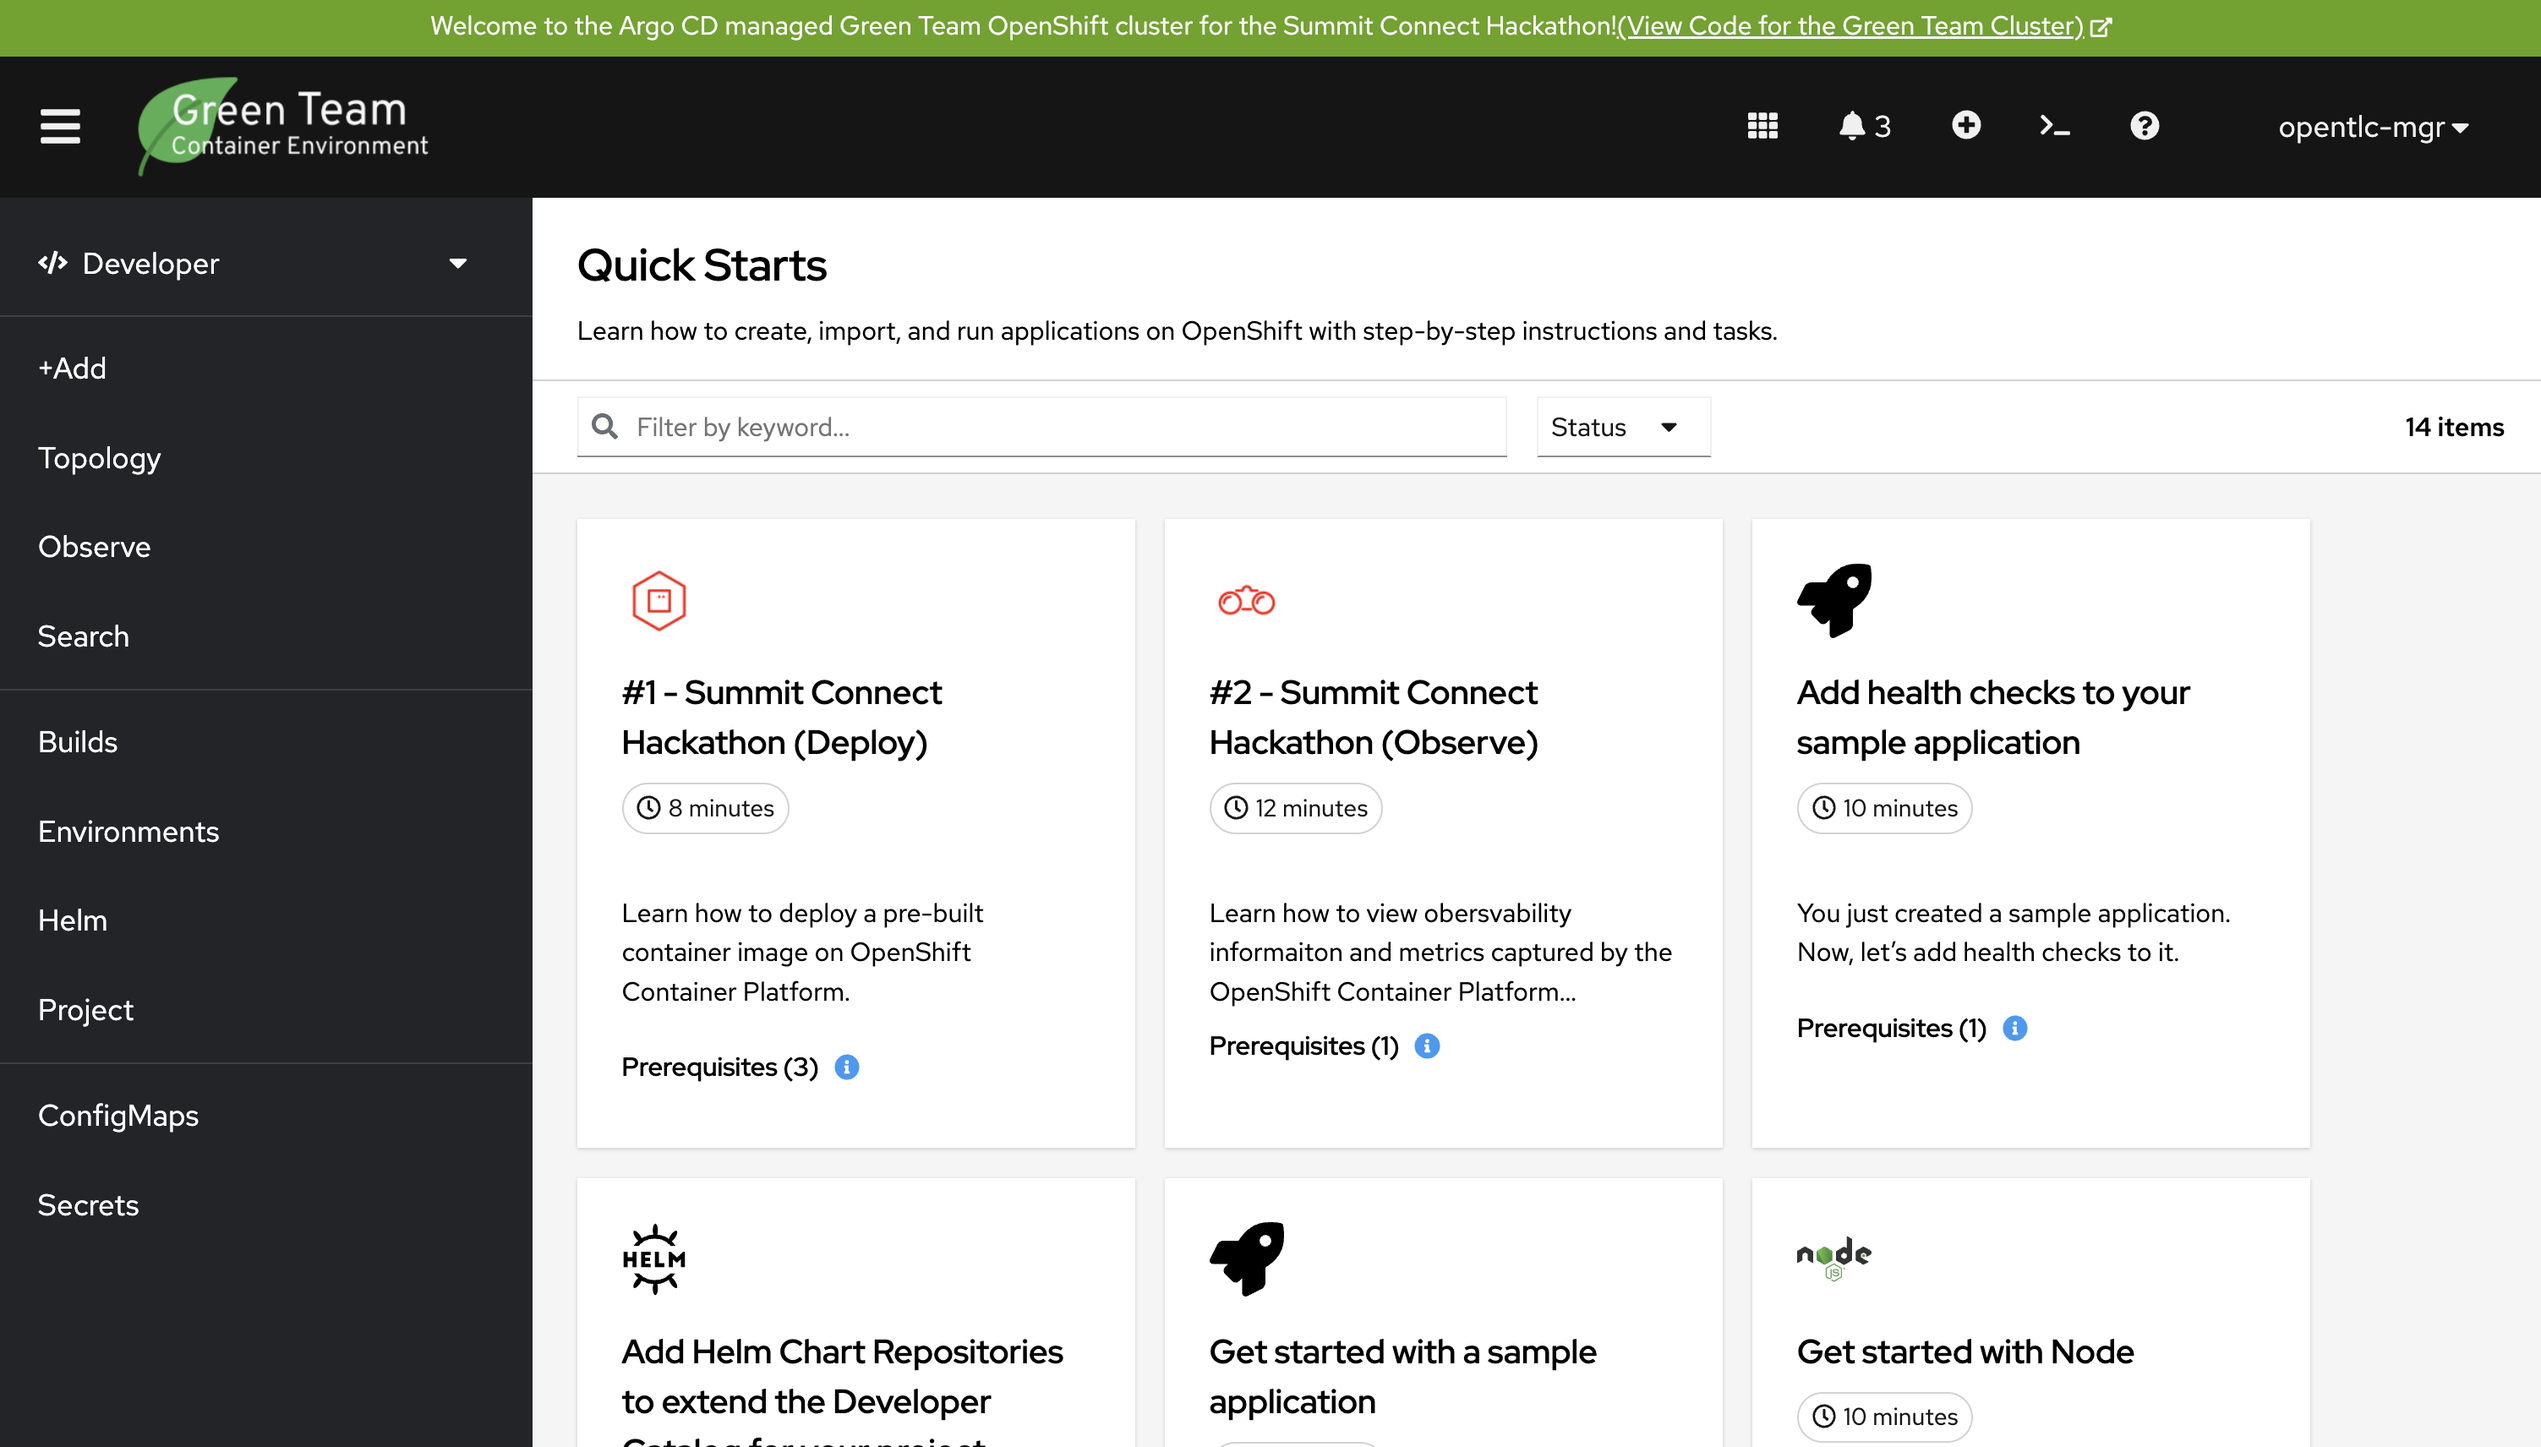
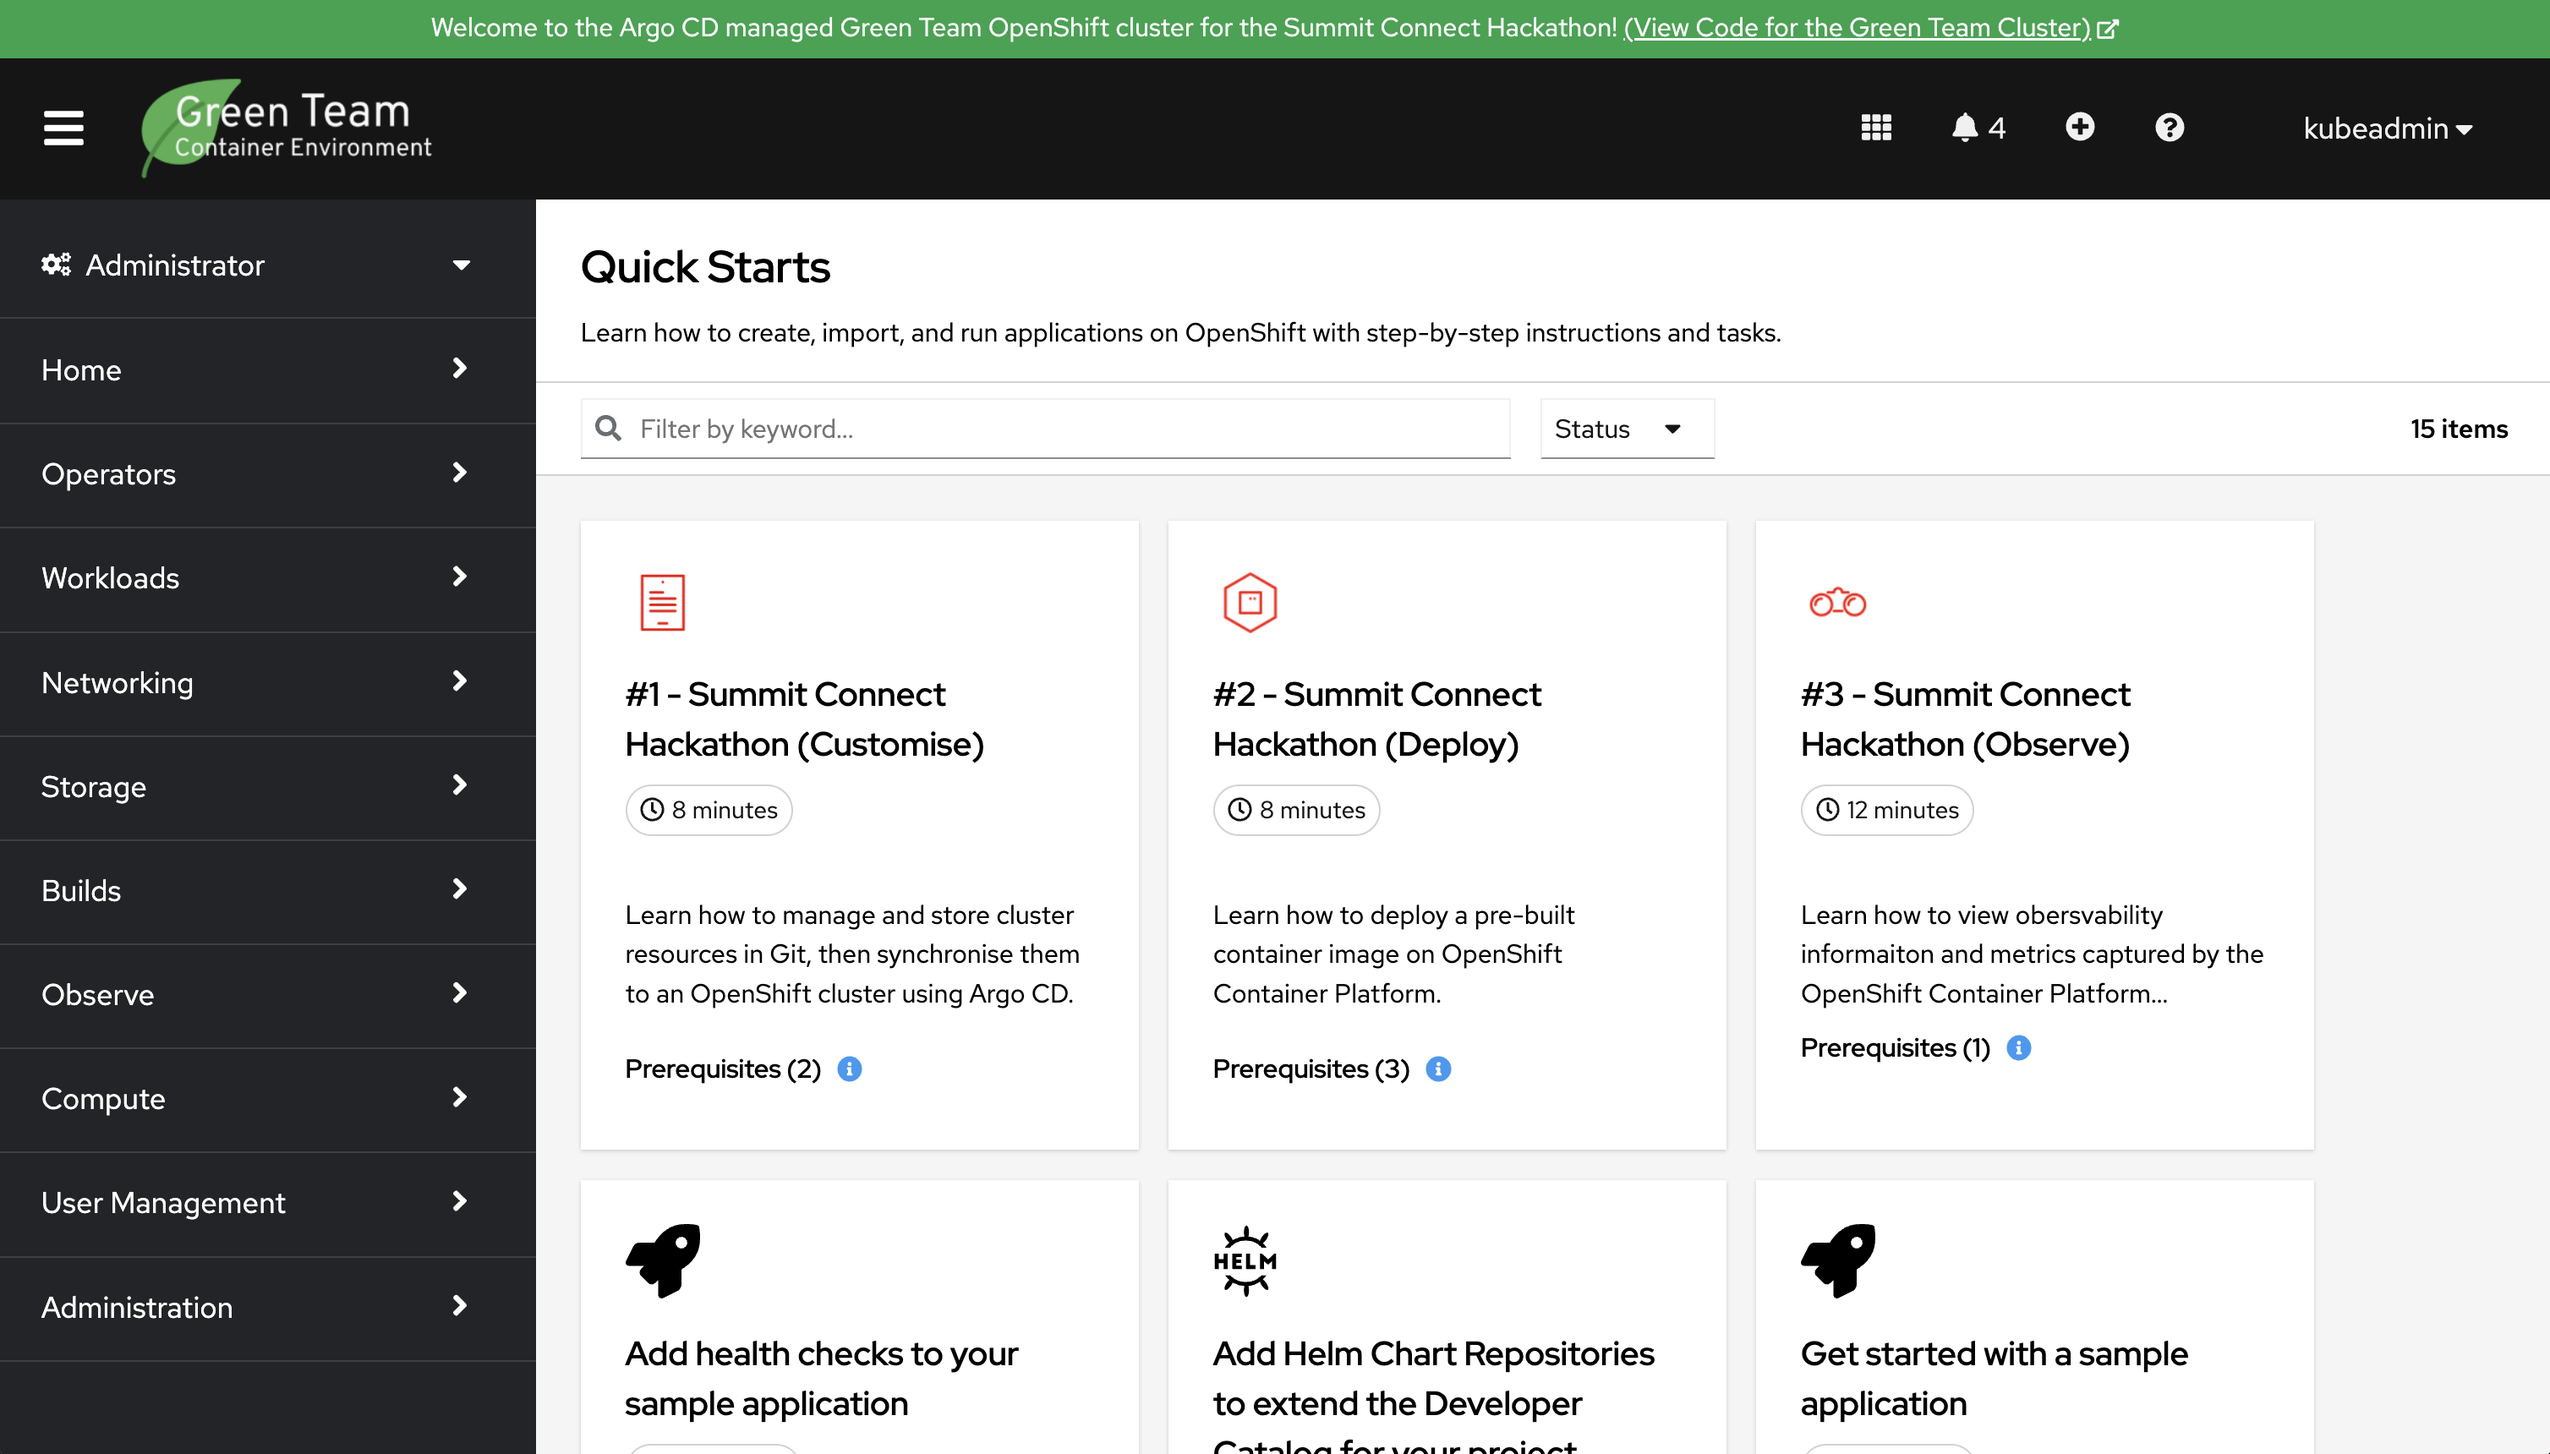
[CI] Publish Documentation for 62814d0026f2637bd4dfef1215954f91ffa813a8 - 62814d0026f2637bd4dfef1215954f91ffa813a8 🚀

diff --git a/quickstart-workshop/03-green.html b/quickstart-workshop/03-green.html
@@ -325,7 +325,7 @@ Use the <strong>Show default projects</strong> toggle if the <code>openshift-ope
 </td>
 <td class="content">
 <div class="paragraph">
-<p>You might not see the ASCII art if you used an existing Project that had an existing terminal session.</p>
+<p>You might not see the ASCII art if you used a Project that had an existing terminal session.</p>
 </div>
 <div class="paragraph">
 <p>Force the new container image to be used by deleting the existing Pod(s) using the following command in your Web Terminal session:</p>
@@ -607,9 +607,9 @@ EOF</code></pre>
 <p>Argo CD uses an <a href="https://argo-cd.readthedocs.io/en/stable/operator-manual/declarative-setup/#applications" target="_blank" rel="noopener">Application CRD</a> to represent deployed application resources. The Application definition specifies the <code>source</code> state, represented using YAML files in a Git repository, and a <code>destination</code> cluster and namespace in which to deploy the resources.</p>
 </div>
 <div class="paragraph">
-<p>An example Application CR is shown below. This is just a sample, you don&#8217;t need to copy/paste it:</p>
+<p>An example Application CR is shown below.</p>
 </div>
-<div class="listingblock console-input">
+<div class="listingblock">
 <div class="content">
 <pre class="highlightjs highlight"><code class="language-yaml hljs" data-lang="yaml">apiVersion: argoproj.io/v1alpha1
 kind: Application
@@ -634,7 +634,7 @@ spec:
 <div class="sect2">
 <h3 id="_create_an_application_in_argo_cd"><a class="anchor" href="#_create_an_application_in_argo_cd"></a>Create an Application in Argo CD</h3>
 <div class="paragraph">
-<p>Applications can be created using the Argo CD UI, or directly via a YAML Application CR.</p>
+<p>Applications can be created using the Argo CD UI, or by directly by applying Application CRs to your OpenShift cluster using the OpenShift CLI or the OpenShift Web Console.</p>
 </div>
 <div class="paragraph">
 <p>Create an Application using the Argo CD UI:</p>
@@ -738,7 +738,7 @@ spec:
 <p>The <strong>Application Launcher</strong> menu (the 3x3 sqaure icon) contains a <strong>Hackathon Resources</strong> section.</p>
 </li>
 <li>
-<p>Selecting <strong>Quick Starts</strong> from the <strong>Help Menu</strong> (question mark icon) in the top-right of the OpenShift Web Console lists two new Quick Starts named <em>Deploy</em> and <em>Observe</em>.</p>
+<p>Selecting <strong>Quick Starts</strong> from the <strong>Help Menu</strong> (question mark icon) in the top-right of the OpenShift Web Console lists new Quick Starts named <em>Customise</em>, <em>Deploy</em> and <em>Observe</em>.</p>
 </li>
 </ol>
 </div>
@@ -753,7 +753,15 @@ spec:
 <div class="sect1">
 <h2 id="_follow_the_quick_starts"><a class="anchor" href="#_follow_the_quick_starts"></a>Follow the Quick Starts</h2>
 <div class="sectionbody">
-
+<div class="paragraph">
+<p>Congratulations on making it this far! You&#8217;re now ready to start your own cluster customisation journey.</p>
+</div>
+<div class="paragraph">
+<p>To get started visit the Quick Starts, and complete the Quick Start named <strong>Summit Connect Hackathon (Customise)</strong>. Remember, you can find the Quick Starts by selecting <strong>Quick Starts</strong> from the <strong>Help Menu</strong> (question mark icon) in the top-right of the OpenShift Web Console.</p>
+</div>
+<div class="paragraph">
+<p>After completing this Quick Start you&#8217;ll have a Git repository that contains your unique customisations, and you can synchronise them with your cluster using Argo CD.</p>
+</div>
 </div>
 </div>
 <nav class="pagination">
